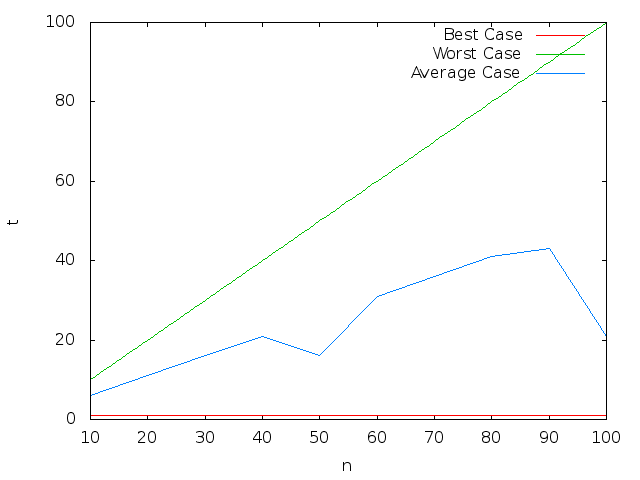
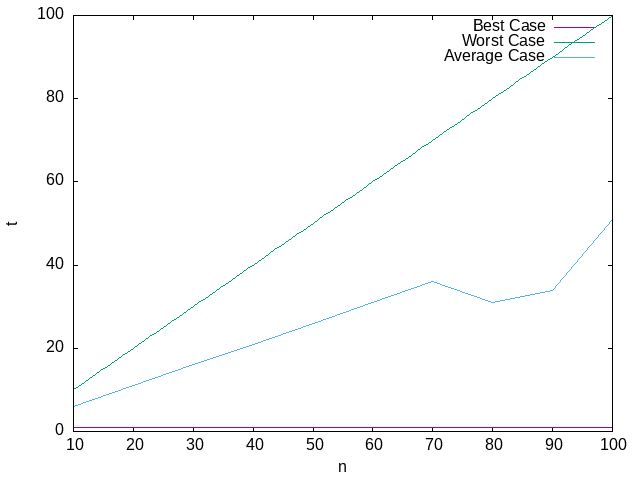
XYz

diff --git a/prg3/3b.c b/prg3/3b.c
@@ -4,18 +4,18 @@
 int c=0;
 void bSort(int *a,int n)
 {
-	for(int i = 0;i<n;i++)
+	for(int i = 0;i<n-1;i++)
 	{
 		int ex=0;
-		for(int j=1;j<n;j++)
+		for(int j=0;j<n-1-i;j++)
 		{
 			c++;
-			if(a[j]<a[j-1])
+			if(a[j+1]<a[j])
 			{
 				ex++;
 				int t=a[j];
-				a[j]=a[j-1];
-				a[j-1]=t;
+				a[j]=a[j+1];
+				a[j+1]=t;
 			}
 		}
 		if(!ex) break;
@@ -77,7 +77,7 @@ void main()
 	fclose(fc);
 	fclose(f);
 	FILE *fg = fopen("BSplot.gnu","w");
-fprintf(fg,"set yrange [0:*]\nset xlabel \"n\"\nset ylabel \"t\"\nplot \"BSBest.txt\" w l ti \"Best Case\", \"BSWorst.txt\" w l smooth bezier ti \"Worst Case\", \"BSAvg.txt\" w l ti \"Average Case\"\nset term png\nset output \"BSG.png\"\nreplot\nset term x11");
+fprintf(fg,"set xlabel \"n\"\nset ylabel \"t\"\nplot \"BSBest.txt\" w l ti \"Best Case\", \"BSWorst.txt\" w l smooth bezier ti \"Worst Case\", \"BSAvg.txt\" w l ti \"Average Case\"\nset term png\nset output \"BSG.png\"\nreplot\nset term x11");
 fclose(fg);
 system("gnuplot \"BSplot.gnu\"");
 system("eog BSG.png");

diff --git a/prg1/1.c b/prg1/1.c
@@ -53,14 +53,15 @@ FILE *fp = fopen("GCD.txt","w+");
 fpc = fopen("GCDC.txt","w+");
 fprintf(fp,"m\tn\tGCDM\tGCDS\tGCDC\n");
 
-int m,n;
+int m,n,min;
 int gm,gs,gc;
 srand(time(0));
 for(int i=1;i<=10;i++)
 {
-m = (rand()+1)%1000;
-n = (rand()+1)%1000;
-fprintf(fpc,"%d\t%d\t",m,n);
+m = (rand()+1)%100+m;
+n = (rand()+1)%100+n;
+min = m>n ? n : m;
+fprintf(fpc,"%d\t%d\t%d\t",m,n,min);
 gm = gcdm(m,n);
 gs = gcds(m,n);
 gc = gcdc(m,n);
@@ -68,6 +69,10 @@ fprintf(fp,"%d\t%d\t%d\t%d\t%d\n",m,n,gm,gs,gc);
 }
 fclose(fp);
 fclose(fpc);
-system("gedit GCD.txt GCDC.txt");
+FILE *fg = fopen("GCDplot.gnu","w");
+fprintf(fg,"set xlabel \"min{m,n}\"\nset ylabel \"t\"\nplot 'GCDC.txt' u 3 : 4 w l ti\"Ecuclid's\",'GCDC.txt' u 3 : 5 w l ti\"Subtraction\",'GCDC.txt' u 3 : 6 w l ti\"Consecutive Interger\" \nset term png\nset output \"GCD.png\"\nreplot\nset term x11");
+fclose(fg);
+system("gnuplot \"GCDplot.gnu\"");
+system("eog GCD.png");
 }
 
